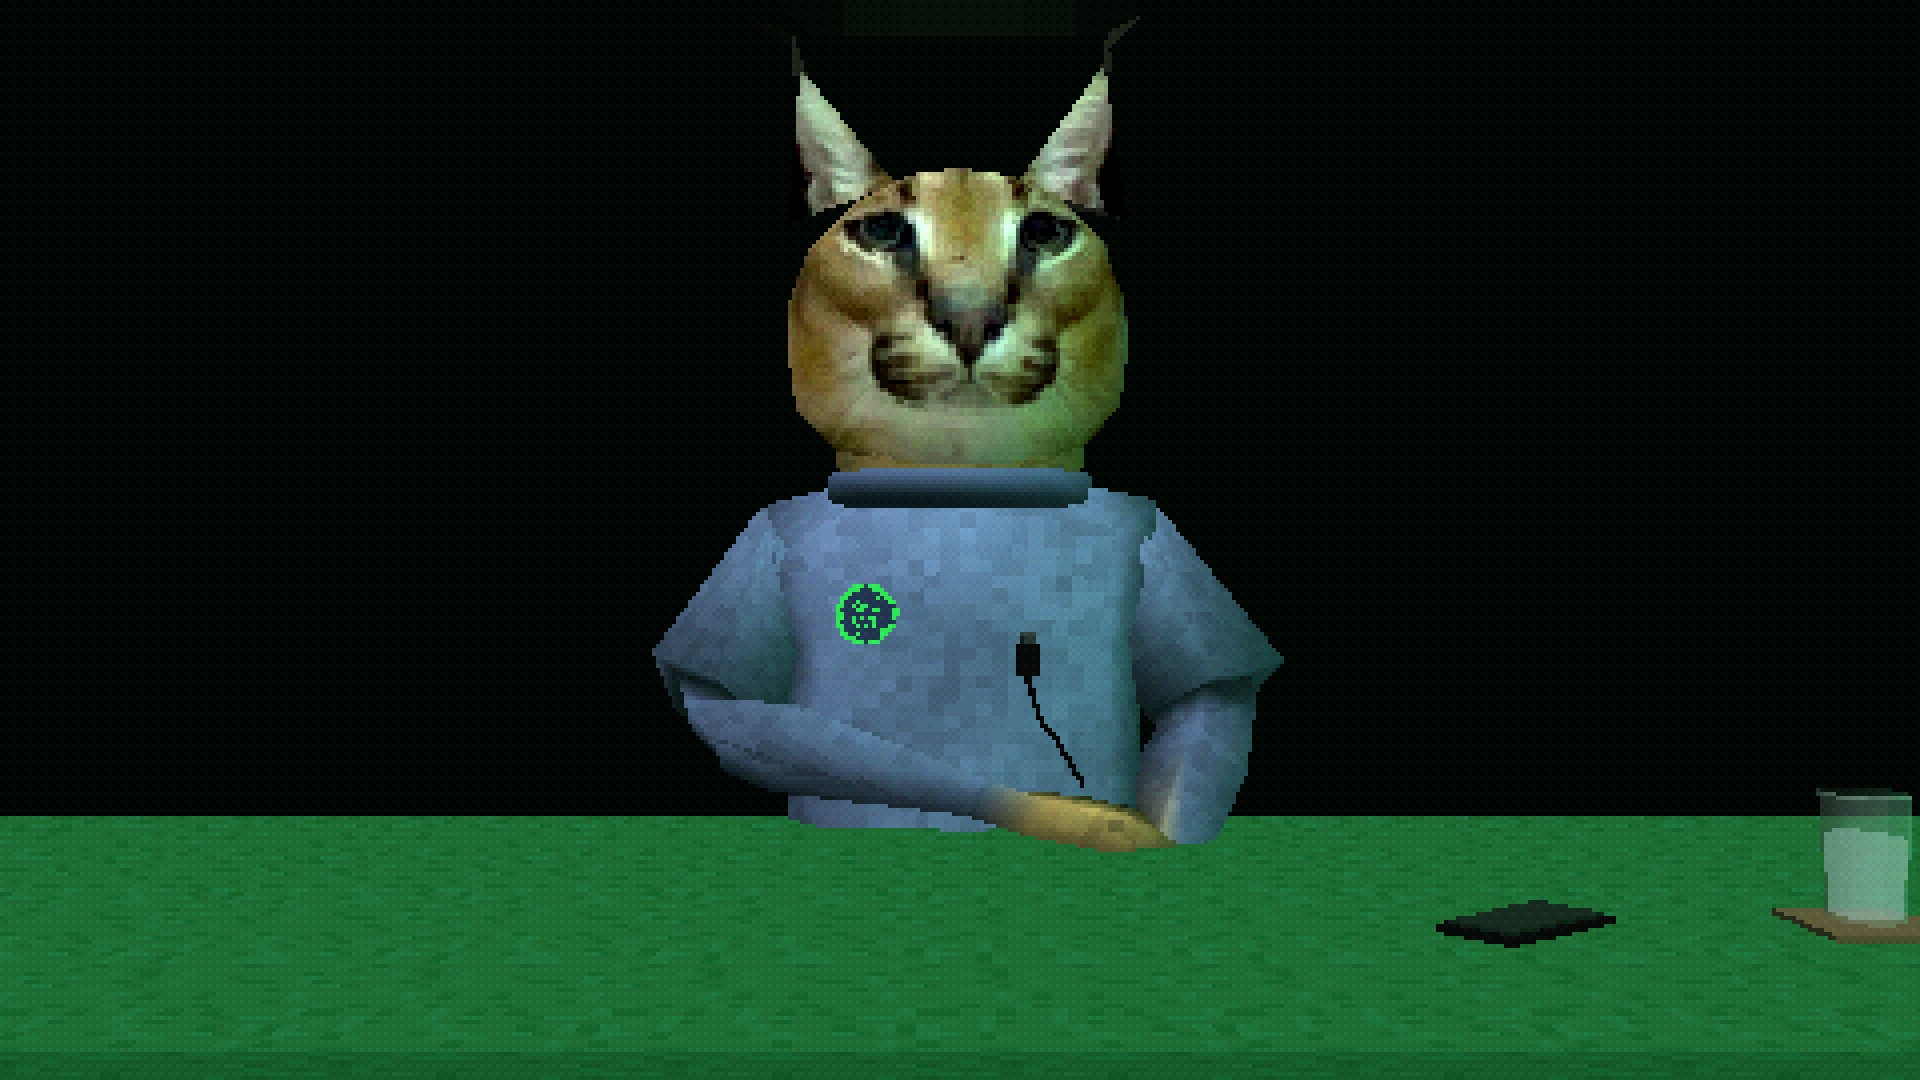
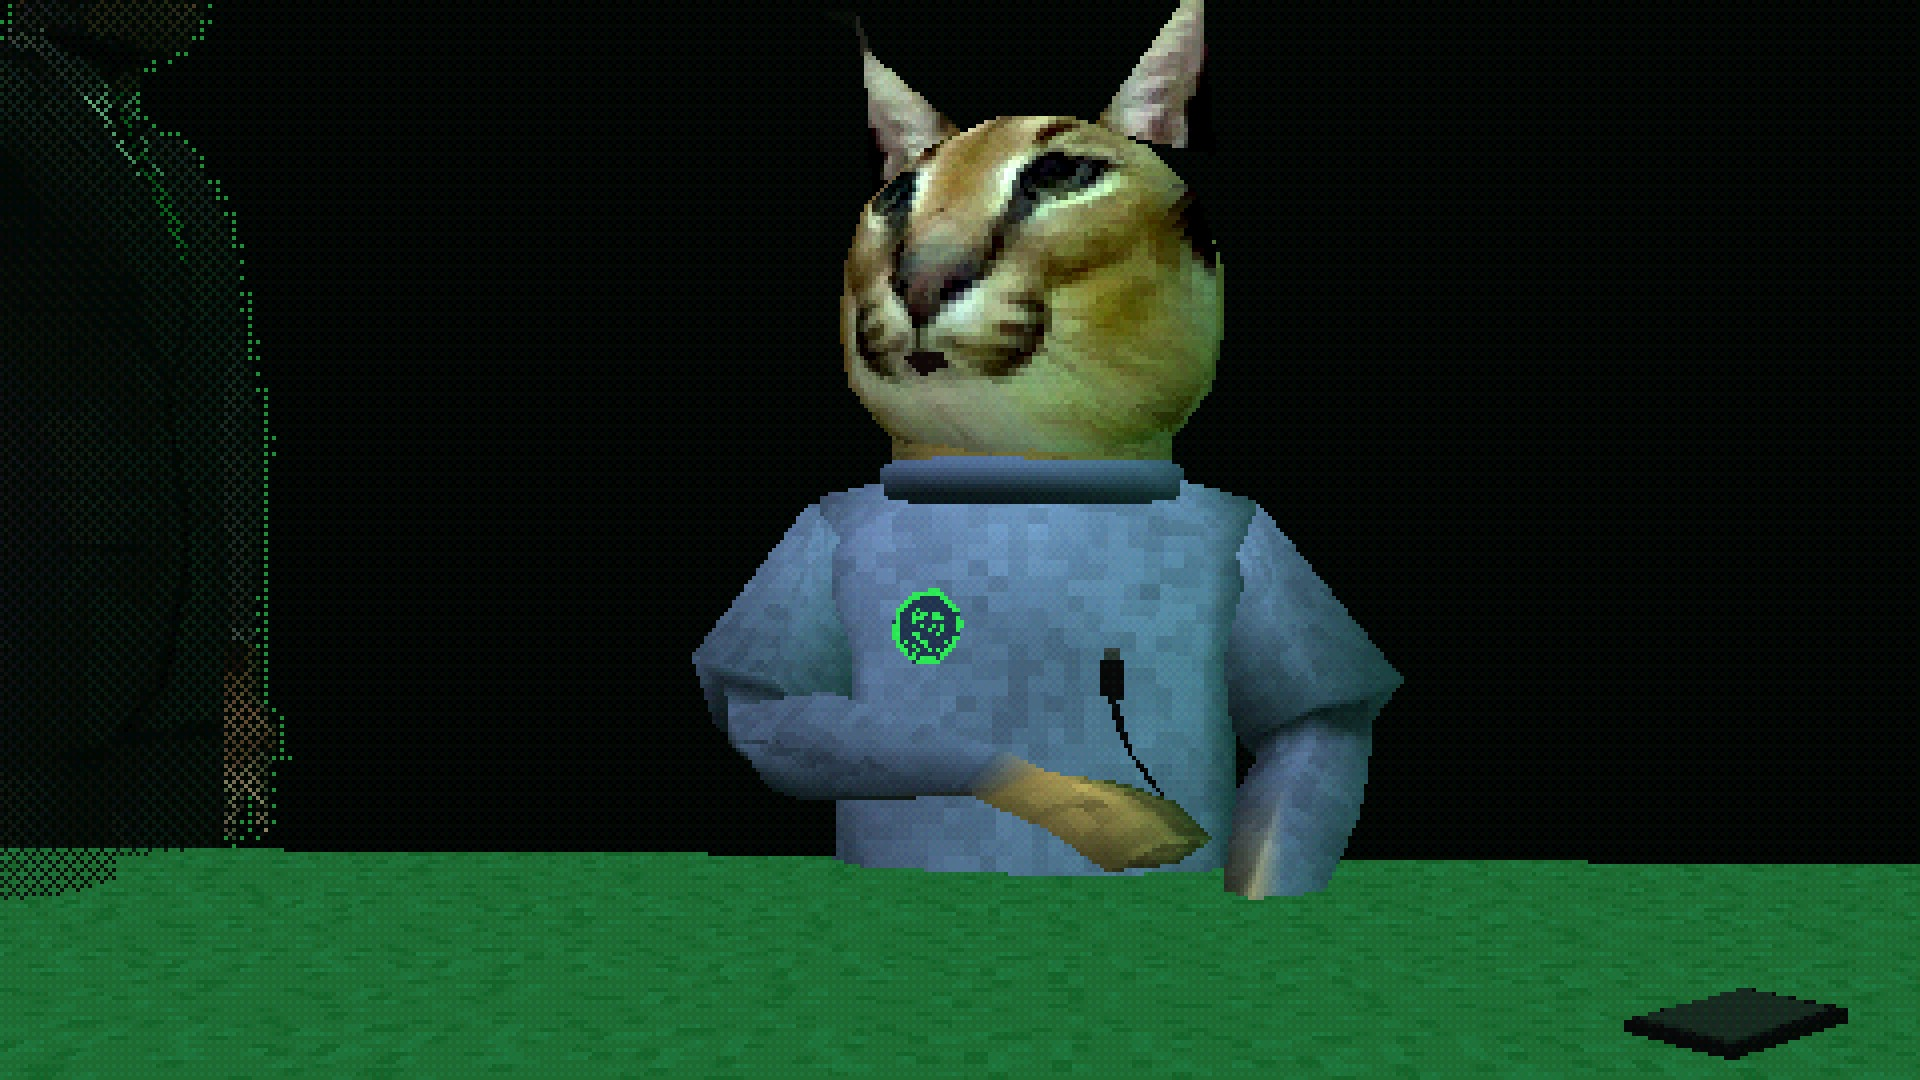
Igor olha pro Phantom e pra maleta em vez de encarar a câmera
Claude-Session: https://claude.ai/code/session_01PVUNKmUDvaP2jpRAvnz1fM

diff --git a/videos/07-igor-anao/index.html b/videos/07-igor-anao/index.html
@@ -50,8 +50,10 @@ window.SETUP = async () => {
       m.R = mao.toArray(); m.poloR = [-.8, .2, -.5]; m.L = [.3, Y + .04, .1];
       if (t >= 15.2) { cena.attach(fita); fita.position.set(mao.x, mao.y - .05, mao.z + .03); fita.rotation.set(-Math.PI / 2 + s * .4, 0, .12 * s); } }
     else if (fita.parent !== mal.dentro) { mal.dentro.add(fita); fita.position.set(0, 0, 0); fita.rotation.set(0, 0, 0); fpos = null; }
-    I.pose(TT, m); I.animar(TT, { boca: fala, pisca: (TT % 4.1) > 3.95 ? 1 : 0 });
-    I.cabeca.rotation.x += .2 * P.suave(9.2, 10.2, t) + .05 * fala; I.cabeca.rotation.y += -.3 * P.suave(4.2, 5.2, t) * (1 - P.suave(8.6, 9.4, t));
+    m.inclina = .16 * P.suave(8.9, 9.6, t); I.pose(TT, m); I.animar(TT, { boca: fala, pisca: (TT % 4.1) > 3.95 ? 1 : 0 });
+    // pra onde ele olha: Phantom chegando → a maleta pousando → de volta pro Phantom enquanto fala → desce o olhar pra maleta e fica nela
+    const praPh = P.suave(4.2, 5.0, t) * (1 - P.suave(6.3, 6.9, t)) + P.suave(7.7, 8.2, t) * (1 - P.suave(8.7, 9.2, t)), praMala = P.suave(6.4, 7.0, t) * (1 - P.suave(7.6, 8.1, t)) + P.suave(8.8, 9.5, t);
+    I.cabeca.rotation.x += .52 * praMala + .05 * fala - .06 * praPh; I.cabeca.rotation.y += -.42 * praPh - .3 * praMala; I.cabeca.position.z += .03 * praMala; I.cabeca.position.y -= .02 * praMala;
     mal.abrir(abre * 1.85); mal.brilho(abre); mal.pulsar(t);
     lamp.acender(liga, S.camera);
     const g = abre * (.75 + .25 * Math.sin(t * 9));

diff --git a/lib/filme.js b/lib/filme.js
@@ -224,7 +224,7 @@ export async function salaIgor(cena, o = {}) {
   const hw = new THREE.Vector3(); c.osso('hand.R').getWorldPosition(hw); const Y = hw.y - .035;
   // a cada quadro: respira e balança de leve; m.R / m.L levam a mão até um ponto (abrir a maleta, pegar a fita, teclar)
   I.pose = (t = 0, m = {}) => {
-    c.repor(); c.virar('spine.002', [1, 0, 0], .014 * Math.sin(t * 1.5)); c.virar('spine.003', [0, 0, 1], .008 * Math.sin(t * .7)); c.virar('spine.003', [0, 1, 0], .015 * Math.sin(t * .45 + 1));
+    c.repor(); c.virar('spine.002', [1, 0, 0], .014 * Math.sin(t * 1.5) + (m.inclina ?? 0)); c.virar('spine.003', [0, 0, 1], .008 * Math.sin(t * .7)); c.virar('spine.003', [0, 1, 0], .015 * Math.sin(t * .45 + 1));
     if (!m.R) c.virar('hand.R', [0, 0, 1], Math.max(0, Math.sin(t * 2.2)) ** 8 * .12);        // a mão na mesa dá uma batidinha de vez em quando
     c.plana = !!m.plana;
     if (m.R) c.alcancar('R', m.R, m.poloR ?? [-.8, -.5, -.3], m.extra ?? .08); if (m.L) c.alcancar('L', m.L, m.poloL ?? [.8, -.5, -.3], m.extra ?? .08);
